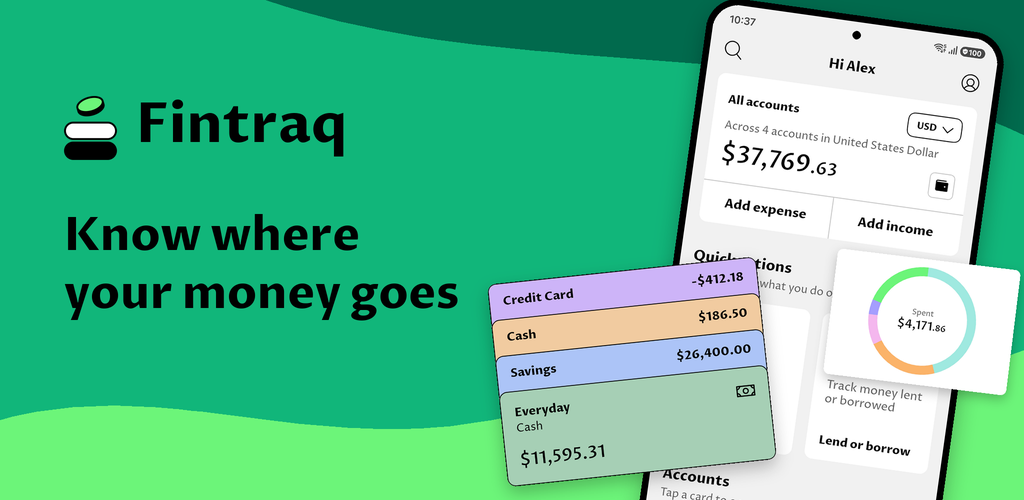
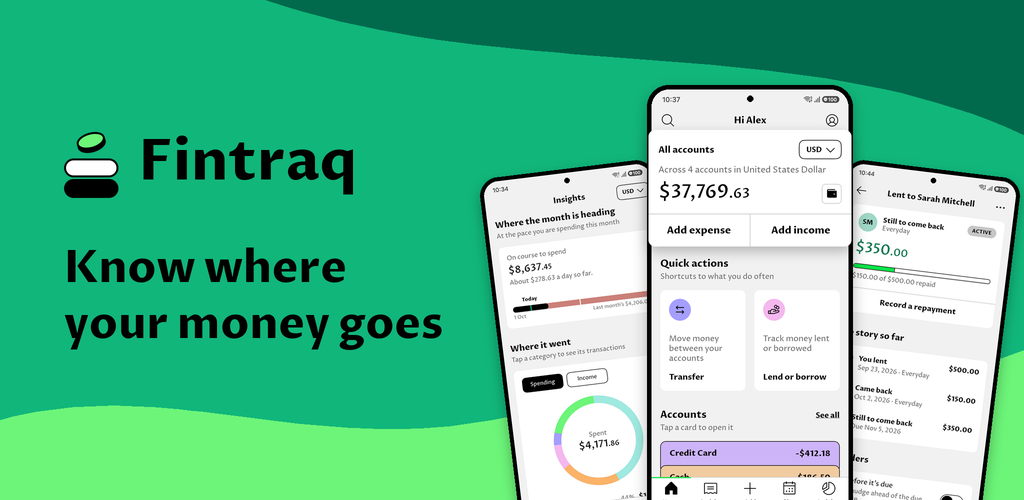
feat(store): feature graphic as three phones fanned out

diff --git a/scripts/generate-store-assets.py b/scripts/generate-store-assets.py
@@ -201,6 +201,19 @@ def centred_text(draw, text, f, cx, top, fill, leading):
     return y
 
 
+def lift(im, which, width, lean, cx, cy):
+    """Draws a card over its own place on a phone `width` across, leaning, whose middle is at (cx, cy)."""
+    # Where a point of the screen lands on the picture: the frame's inset, then the lean about the phone's middle.
+    bezel = round(width * 0.022)
+    scale = (width - 2 * bezel) / 1080
+    turn = math.radians(lean)
+    l, t, r, b = CARDS[which][1]
+    x = bezel + (l + r) / 2 * scale - width / 2
+    y = bezel + (t + b) / 2 * scale - (2340 * scale + 2 * bezel) / 2
+    put(im, card(which, round((r - l) * scale * LIFT), lean),
+        cx + x * math.cos(turn) - y * math.sin(turn), cy + x * math.sin(turn) + y * math.cos(turn))
+
+
 PANEL = (1080, 1920)
 
 
@@ -226,16 +239,8 @@ def play_strip():
         body = device(name, width, lean)
         cy = 400 * SS + body.height / 2
         put(im, body, cx, cy)
-        # Where a point of the screen lands on the picture: the frame's inset, then the lean about the phone's middle.
-        bezel = round(width * 0.022)
-        scale = (width - 2 * bezel) / 1080
-        turn = math.radians(lean)
         for which in lifted:
-            l, t, r, b = CARDS[which][1]
-            x = bezel + (l + r) / 2 * scale - width / 2
-            y = bezel + (t + b) / 2 * scale - (2340 * scale + 2 * bezel) / 2
-            put(im, card(which, round((r - l) * scale * LIFT), lean),
-                cx + x * math.cos(turn) - y * math.sin(turn), cy + x * math.sin(turn) + y * math.cos(turn))
+            lift(im, which, width, lean, cx, cy)
     return im.convert('RGB')
 
 
@@ -251,17 +256,21 @@ def lockup(im, left, top, height):
 
 
 def feature_graphic():
+    """The name and the line on the left; three phones fanned out on the right, running off the foot."""
     W, H = 1024 * SS, 500 * SS
     im = waves(W, H).convert('RGBA')
-    put(im, device('home', 300 * SS, 8), 815 * SS, 330 * SS)
-    put(im, card('stack', 270 * SS, -6), 632 * SS, 372 * SS)
-    put(im, card('donut', 184 * SS, 7), 922 * SS, 322 * SS)
+    for name, x, top, width, lean in (('insights-30b', 588, 140, 176, -7), ('loan', 912, 140, 176, 7), ('home', 750, 64, 206, 0)):
+        body = device(name, width * SS, lean)
+        cy = top * SS + body.height / 2
+        put(im, body, x * SS, cy)
+        if name == 'home':
+            lift(im, 'balance', width * SS, lean, x * SS, cy)
     d = ImageDraw.Draw(im)
     left = 64 * SS
-    y = lockup(im, left, 96 * SS, 64 * SS) + 44 * SS
+    y = lockup(im, left, 132 * SS, 66 * SS) + 40 * SS
     for line in ('Know where', 'your money goes'):
-        d.text((left, y), line, font=font('700Bold', 46 * SS), fill=INK)
-        y += 58 * SS
+        d.text((left, y), line, font=font('700Bold', 44 * SS), fill=INK)
+        y += 56 * SS
     return im.convert('RGB').resize((1024, 500), Image.LANCZOS)
 
 
